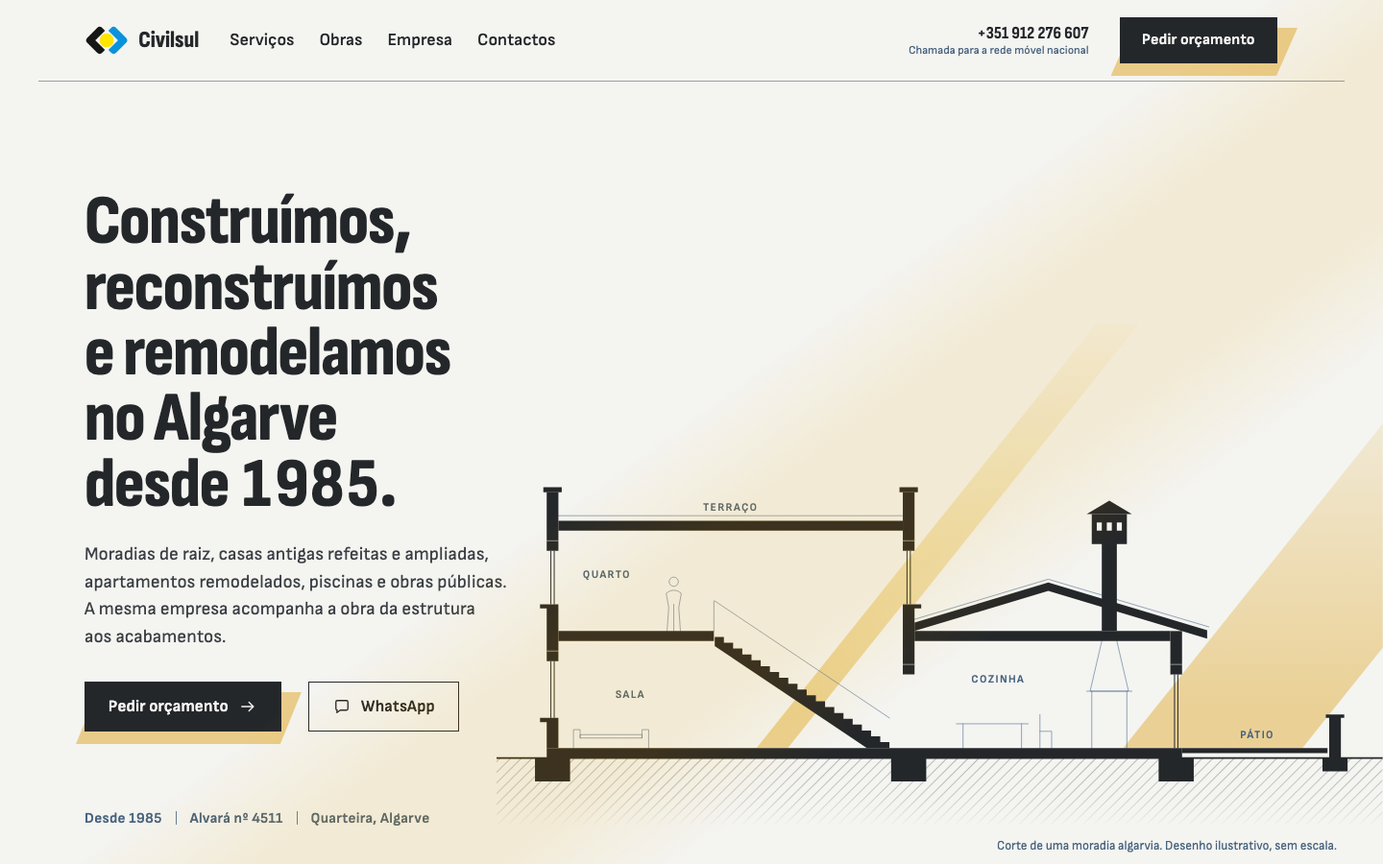
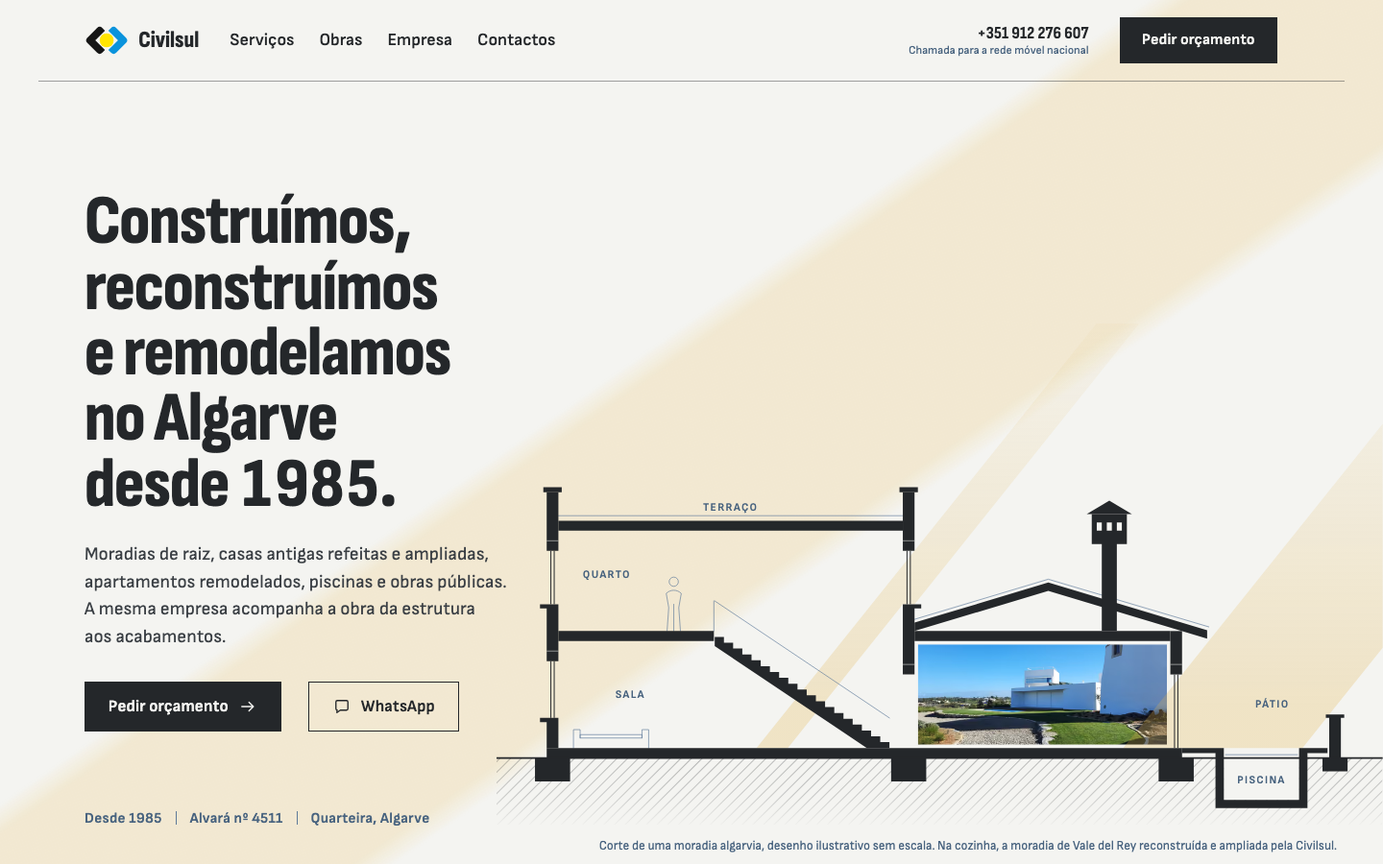
Cal e Barra e Luz em Corte: correções da revisão final

diff --git a/src/variants/luz-em-corte/styles.css b/src/variants/luz-em-corte/styles.css
@@ -73,20 +73,9 @@ address { font-style: normal; }
 .btn .ic { width: 20px; height: 20px; flex: none; }
 .btn--line { --bg: transparent; --fg: var(--ink); }
 .btn--line:hover { --bg: var(--ink); --fg: var(--ground); }
-/* a ação principal está numa mancha de sol: um paralelogramo de luz projetado para trás e para baixo */
-.btn--lit::before {
-  content: ''; position: absolute; z-index: -2;
-  inset: 10px -22px -14px -10px;
-  background: rgb(226 179 74 / 0.62);
-  clip-path: polygon(22px 0, 100% 0, calc(100% - 22px) 100%, 0 100%);
-  transition: translate 0.5s var(--ease);
-  pointer-events: none;
-}
 .btn--lit:hover { --bg: #111315; }
-.btn--lit:hover::before { translate: -6px 0; }
 .btn--rev { --bg: var(--ground); --fg: var(--ink); border-color: var(--ground); }
 .btn--rev:hover { --bg: #fff; }
-.btn--rev::before { background: var(--gold); }
 .btn--line-rev { --fg: var(--ground); border-color: var(--hair-rev); }
 .btn--line-rev:hover { --bg: var(--ground); --fg: var(--ink); }
 .btn[hidden] { display: none; }
@@ -141,6 +130,9 @@ address { font-style: normal; }
 .corte__joint { fill: none; stroke: var(--ground); stroke-width: 0.75; vector-effect: non-scaling-stroke; opacity: 0.7; }
 .corte__ground { fill: none; stroke: var(--ink); stroke-width: 1.6; vector-effect: non-scaling-stroke; }
 .corte__hatch { stroke: var(--ink); stroke-width: 0.6; vector-effect: non-scaling-stroke; }
+.corte__clear { fill: var(--ground); }
+.corte__photo, .corte__photo picture, .corte__photo img { display: block; width: 100%; height: 100%; }
+.corte__photo img { object-fit: cover; object-position: 50% 60%; }
 .corte__labels { fill: var(--blue-ink); font: 650 calc(var(--cw) * 0.0125px) var(--body); letter-spacing: 0.12em; text-transform: uppercase; text-anchor: middle; }
 @media (max-width: 600px) { .corte__labels { font-size: calc(var(--cw) * 0.026px); letter-spacing: 0.06em; } }
 
@@ -224,7 +216,7 @@ address { font-style: normal; }
 .svc__row h3 a:hover { text-decoration: underline; }
 .svc__row h3 a:hover .ic { translate: 4px 0; }
 .svc__short { color: var(--ink-soft); max-width: 40ch; }
-.svc__items { display: grid; gap: 3px; font-size: 0.9375rem; line-height: 1.4; color: var(--blue-ink); }
+.svc__items { display: grid; gap: 3px; font-size: 0.9375rem; line-height: 1.4; color: var(--ink-soft); }
 @media (min-width: 960px) {
   .svc__row { grid-template-columns: repeat(12, minmax(0, 1fr)); column-gap: 24px; align-items: baseline; padding-block: 30px; }
   .svc__row h3 { grid-column: 1 / span 5; }
@@ -291,11 +283,13 @@ address { font-style: normal; }
 
 /* ---------- Obras: divisões de um corte (paredes e lajes em poché) ---------- */
 .works { padding-bottom: clamp(56px, 8vw, 112px); }
+.slab + .works, .slab + .proc { padding-top: clamp(56px, 8vw, 112px); }
 .rooms { display: grid; grid-template-columns: 1fr; gap: var(--wall); padding: calc(var(--wall) / 2); }
 .rm { background: var(--ground); box-shadow: 0 0 0 calc(var(--wall) / 2) var(--ink); min-width: 0; }
 .rm[hidden] { display: none; }
 .rm__link { display: flex; flex-direction: column; height: 100%; text-decoration: none; }
 .rm__photo { aspect-ratio: 4 / 3; background: #d9d9d4; overflow: hidden; }
+.lit { clip-path: inset(0); isolation: isolate; }
 .rm__photo picture, .rm__photo img { width: 100%; height: 100%; }
 .rm__photo img { object-fit: cover; }
 .rm__cap { display: grid; gap: 4px; padding: 14px 18px 20px; }
@@ -437,6 +431,18 @@ address { font-style: normal; }
 .qs__alt small { display: block; font-size: 0.8125rem; color: var(--blue-ink); }
 .qs__alt a { display: inline-flex; min-height: 44px; align-items: center; }
 
+/* ---------- Contactos (corpo) ---------- */
+.cx { padding-block: clamp(40px, 6vw, 80px) clamp(56px, 8vw, 112px); }
+.cx__chan { display: grid; border-top: 1px solid var(--ink); }
+.cx__chan div { display: grid; gap: 4px; padding: 18px 0 20px; border-bottom: 1px solid var(--hair); }
+.cx__chan dt { font-size: 0.875rem; color: var(--blue-ink); }
+.cx__chan dd { display: grid; gap: 2px; justify-items: start; }
+.cx__tel { font: 740 clamp(1.625rem, 1.35rem + 0.9vw, 2.125rem)/1.1 var(--display); text-decoration: none; min-height: 44px; display: inline-flex; align-items: center; overflow-wrap: anywhere; }
+.cx__tel:hover { text-decoration: underline; text-decoration-thickness: 2px; }
+.cx__chan small { font-size: 0.8125rem; color: var(--blue-ink); }
+.cx__addr address { font-size: 1.125rem; line-height: 1.5; }
+@media (min-width: 960px) { .cx__chan { grid-template-columns: repeat(3, 1fr); column-gap: 32px; } .cx__addr { grid-column: span 2; } }
+
 /* ---------- Privacidade ---------- */
 .prv { display: grid; gap: 0; padding-block: clamp(40px, 6vw, 80px) clamp(64px, 9vw, 120px); max-width: calc(760px + var(--gut) * 2); margin-inline: 0 auto; }
 @media (min-width: 1360px) { .prv { margin-inline: calc((100vw - var(--max)) / 2) auto; } }
@@ -502,31 +508,29 @@ address { font-style: normal; }
   .bar a.bar__q { background: var(--gold); color: var(--ink); }
 }
 
-/* ---------- A luz: uma banda de sol que atravessa a página com o scroll ---------- */
-.sun > i {
-  position: fixed; z-index: 15; pointer-events: none;
+/* ---------- A luz: uma banda de sol que atravessa a página com o scroll ----------
+   A banda fica por baixo do conteúdo (z-index -1: só ilumina o fundo de cal). Dentro das fotografias
+   (.lit, recortadas com clip-path) repete-se a mesma banda fixa, que assim passa por cima da imagem. */
+@property --sp { syntax: '<number>'; inherits: true; initial-value: 0.42; }
+.sun > i, .lit::after {
+  content: ''; position: fixed; pointer-events: none;
   left: 50%; top: 50%;
-  width: 26vmax; height: 320vmax; margin: -160vmax 0 0 -13vmax;
-  background: linear-gradient(90deg, transparent, var(--c) 30%, var(--c) 70%, transparent);
-  translate: 20vw 0; rotate: 54deg;
+  width: 20vmax; height: 320vmax; margin: -160vmax 0 0 -10vmax;
+  background: linear-gradient(90deg, transparent, var(--c) 9%, var(--c) 91%, transparent);
+  translate: calc(36vw - 72vw * var(--sp)) 0;
+  rotate: calc(47deg + 19deg * var(--sp));
 }
-.sun__soft { --c: rgb(226 179 74 / 0.55); mix-blend-mode: soft-light; }
-.sun__warm { --c: rgb(226 179 74 / 0.14); mix-blend-mode: multiply; }
+.sun > i { z-index: -1; }
+.sun__soft { --c: rgb(226 179 74 / 0.6); mix-blend-mode: soft-light; }
+.sun__warm { --c: rgb(226 179 74 / 0.17); mix-blend-mode: multiply; }
+.lit::after { --c: rgb(226 179 74 / 0.32); mix-blend-mode: screen; z-index: 1; }
 
 @media (prefers-reduced-motion: no-preference) {
   @supports (animation-timeline: scroll()) {
-    .sun > i { animation: sunpath linear both; animation-timeline: scroll(root); }
+    :root { animation: sunpath linear both; animation-timeline: scroll(root); }
   }
-  [data-sun][data-js] > i {
-    translate: calc(36vw - 72vw * var(--p, 0)) 0;
-    rotate: calc(47deg + 19deg * var(--p, 0));
-    opacity: min(1, calc(var(--p, 0) * 9));
-  }
+  .sun > i { opacity: min(1, calc(var(--sp) * 9)); }
 }
-@keyframes sunpath {
-  0% { translate: 36vw 0; rotate: 47deg; opacity: 0; }
-  11% { opacity: 1; }
-  100% { translate: -36vw 0; rotate: 66deg; opacity: 1; }
-}
-@media (forced-colors: active) { .sun { display: none; } }
-@media print { .sun, .bar { display: none; } }
+@keyframes sunpath { from { --sp: 0; } to { --sp: 1; } }
+@media (forced-colors: active) { .sun, .lit::after { display: none; } }
+@media print { .sun, .bar, .lit::after { display: none; } }

diff --git a/src/variants/cal-e-barra/styles.css b/src/variants/cal-e-barra/styles.css
@@ -20,7 +20,6 @@
 
   --max: 1440px;
   --pad: clamp(16px, 3.4vw, 48px);
-  --street: clamp(44px, 5.5vw, 80px);
   --gut: clamp(24px, 2.8vw, 40px);
   --expo: cubic-bezier(0.16, 1, 0.3, 1);
   --hd-h: 0px;
@@ -141,28 +140,24 @@ p { text-wrap: pretty; }
 }
 .barra__link:hover { text-decoration: underline; text-decoration-color: currentColor; }
 .barra--ocre .barra__link { color: var(--ink); }
+.barra__links { display: flex; flex-wrap: wrap; gap: 0 28px; padding-block: 10px; }
+.barra__links a { display: inline-flex; align-items: center; min-height: 44px; color: var(--cal); font: 600 1rem/1.2 var(--display); text-decoration: none; }
+.barra__links a:hover { text-decoration: underline; }
+.barra .filter { margin-top: 0; padding-block: 14px; }
+.barra .filter button { border-color: var(--anil-rule); color: var(--cal); }
+.barra .filter button:hover { background: var(--anil-2); }
+.barra .filter button[aria-pressed='true'] { background: var(--cal); border-color: var(--cal); color: var(--anil); }
+.barra:has(.filter[hidden]) { --bh: 40px; }
 
 /* ---------- Parede e platibanda ---------- */
 .wall {
   position: relative;
-  margin-top: var(--street);
   background: var(--cal);
 }
 .wall__body { padding-top: clamp(56px, 7vw, 112px); padding-bottom: clamp(64px, 8vw, 128px); }
 .wall--first { margin-top: 0; }
 .wall--first .wall__body { padding-top: clamp(24px, 4vw, 56px); padding-bottom: clamp(48px, 6vw, 88px); }
 .vh { position: absolute !important; width: 1px; height: 1px; overflow: hidden; clip-path: inset(50%); white-space: nowrap; }
-.crown {
-  --step: clamp(14px, 1.6vw, 24px);
-  position: absolute;
-  bottom: calc(100% - 1px);
-  left: max(var(--pad), calc((100% - var(--max)) / 2 + var(--pad)));
-  width: clamp(220px, 30vw, 440px);
-  height: calc(var(--step) * 1.1);
-  background: var(--cal);
-  clip-path: polygon(0 100%, 0 50%, var(--step) 50%, var(--step) 0, calc(100% - var(--step)) 0, calc(100% - var(--step)) 50%, 100% 50%, 100% 100%);
-}
-
 /* ---------- Cabeçalho (ocupa 5/12 da primeira vista em desktop) ---------- */
 .hd { position: relative; z-index: 2; background: var(--cal); }
 .hd__in { padding: 18px var(--pad) 0; }
@@ -323,12 +318,15 @@ h2.trades__h { font-size: clamp(1.75rem, 2.8vw, 2.5rem); }
 .sx__items li:last-child { border-bottom: 1px solid var(--rule); }
 
 /* ---------- Serviço ---------- */
-.sv__intro { display: grid; gap: 28px; margin-top: 36px; }
-.sv__intro > p { max-width: 60ch; color: var(--ink); }
+.sv__top { display: grid; gap: 40px; }
+.sv__lead { margin-top: 28px; max-width: 60ch; color: var(--ink); }
+.sv__win .win__glass { aspect-ratio: 4 / 5; }
+.sv__inc { margin-top: clamp(40px, 5vw, 72px); }
+.sv__inc ul { columns: 1; column-gap: var(--gut); }
+.sv__inc li { break-inside: avoid; }
 .sv__inc h2 { font-size: 1.25rem; letter-spacing: -0.02em; }
 .sv__inc ul { margin-top: 12px; }
 .sv__inc li { padding: 10px 0; border-top: 1px solid var(--rule); line-height: 1.4; }
-.sv__inc li:last-child { border-bottom: 1px solid var(--rule); }
 .sv__cta { margin-top: 32px; white-space: normal; text-align: left; }
 .sv__works { display: grid; gap: 44px var(--gut); margin-top: clamp(32px, 4vw, 56px); }
 .sv__works .win__glass { aspect-ratio: 4 / 3; }
@@ -401,9 +399,9 @@ h2.trades__h { font-size: clamp(1.75rem, 2.8vw, 2.5rem); }
 .qf__steps li[aria-current] { color: var(--ink); font-weight: 600; }
 .qf__steps li[aria-current] .num, .qf__steps li[data-done] .num { color: var(--anil); }
 .qf__steps li[role='button'] { cursor: pointer; text-decoration: underline; text-decoration-color: var(--rule); }
-.qf__steps { position: relative; border-top: 6px solid var(--rua); }
+.qf__steps { position: relative; border-top: 2px solid var(--rule); }
 .qf__bar {
-  position: absolute; left: 0; right: 0; top: -6px; height: 6px; background: var(--anil);
+  position: absolute; left: 0; right: 0; top: -2px; height: 2px; background: var(--anil);
   transform-origin: left; transform: scaleX(calc(0.25 + var(--progress, 0) * 0.75));
 }
 .qf:not(.is-js) .qf__steps { display: none; }
@@ -443,7 +441,7 @@ h2.trades__h { font-size: clamp(1.75rem, 2.8vw, 2.5rem); }
 .qf:not(.is-js) [data-prev], .qf:not(.is-js) [data-next], .qf:not(.is-js) [data-send='wa'] { display: none; }
 .qf__status:empty { display: none; }
 .qf__status { font-weight: 600; color: var(--anil); }
-.sheet { padding: 24px 24px 20px; background: #fff; border-top: 6px solid var(--anil); }
+.sheet { padding-top: 18px; border-top: 1.5px solid var(--ink); }
 .sheet__h { font-size: 1.375rem; }
 .sheet__rows { margin-top: 12px; }
 .sheet__rows div { display: grid; grid-template-columns: 9.5rem 1fr; gap: 12px; padding: 9px 0; border-top: 1px solid var(--rule); font-size: 0.9375rem; }
@@ -576,7 +574,8 @@ h2.trades__h { font-size: clamp(1.75rem, 2.8vw, 2.5rem); }
 
   .ph { max-width: 1040px; }
   .sx__row { grid-template-columns: minmax(0, 3fr) minmax(0, 5fr) minmax(0, 4fr); column-gap: var(--gut); align-items: start; }
-  .sv__intro { grid-template-columns: minmax(0, 7fr) minmax(0, 5fr); column-gap: calc(var(--gut) * 2); }
+  .sv__top--win { grid-template-columns: minmax(0, 7fr) minmax(0, 5fr); column-gap: calc(var(--gut) * 2); align-items: end; }
+  .sv__inc ul { columns: 3; }
   .sv__works--3 { grid-template-columns: repeat(3, minmax(0, 1fr)); }
   .sv__others { grid-template-columns: repeat(3, minmax(0, 1fr)); }
   .ab { grid-template-columns: minmax(0, 5fr) minmax(0, 7fr); column-gap: calc(var(--gut) * 2); }
@@ -599,6 +598,7 @@ h2.trades__h { font-size: clamp(1.75rem, 2.8vw, 2.5rem); }
 }
 
 @media (max-width: 899px) {
+  .hero__actions { display: none; }
   body { padding-bottom: calc(60px + env(safe-area-inset-bottom)); }
   .ft { padding-bottom: 40px; }
   .hd__nav ul { flex-wrap: nowrap; }

diff --git a/src/variants/luz-em-corte/sun.ts b/src/variants/luz-em-corte/sun.ts
@@ -1,23 +1,24 @@
 // A banda de sol percorre a página com o scroll. Onde o CSS tem scroll-driven animations, é só CSS;
-// aqui fica a alternativa para os outros browsers. Com movimento reduzido, a banda fica parada.
-const sun = document.querySelector<HTMLElement>('[data-sun]');
+// aqui fica a alternativa para os outros browsers (--sp no <html>). Com movimento reduzido, a banda fica parada.
+const root = document.documentElement;
 const reduce = matchMedia('(prefers-reduced-motion: reduce)');
 
-if (sun && !CSS.supports('animation-timeline: scroll()')) {
+if (!CSS.supports('animation-timeline: scroll()')) {
   let raf = 0;
   const set = () => {
     raf = 0;
-    const max = document.documentElement.scrollHeight - innerHeight;
-    sun.style.setProperty('--p', (max > 0 ? Math.min(1, Math.max(0, scrollY / max)) : 0).toFixed(4));
+    const max = root.scrollHeight - innerHeight;
+    root.style.setProperty('--sp', (max > 0 ? Math.min(1, Math.max(0, scrollY / max)) : 0).toFixed(4));
   };
   const on = () => { if (!raf) raf = requestAnimationFrame(set); };
   const bind = () => {
     if (reduce.matches) {
-      delete sun.dataset.js;
+      delete root.dataset.sunjs;
+      root.style.removeProperty('--sp');
       removeEventListener('scroll', on);
       removeEventListener('resize', on);
     } else {
-      sun.dataset.js = '';
+      root.dataset.sunjs = '';
       addEventListener('scroll', on, { passive: true });
       addEventListener('resize', on);
       set();

diff --git a/src/variants/cal-e-barra/DESIGN.md b/src/variants/cal-e-barra/DESIGN.md
@@ -1,16 +1,16 @@
 # Cal e Barra (proposta B) — sistema como construído
 
 Site completo, só PT. Rota única `src/pages/cal-e-barra/[...path].astro` (`variantPaths(['pt'])`) + `src/variants/cal-e-barra/**`:
-`Layout.astro` (head, cabeçalho, rodapé, barra fixa móvel), `Wall.astro` (parede: platibanda + corpo + barra com slot), `PageHead.astro`, `Win.astro` (obra como janela), `Channels.astro`, `Close.astro` (remate de contacto), `Trades.astro`, `Process.astro`, `Crown.astro`, `Icon.astro`, `copy.ts`, scripts `barra.ts` / `menu.ts` / `filter.ts`, e `pages/` (Home, Services, Service, Works, Work, Quote, Contact, About, Privacy).
+`Layout.astro` (head, cabeçalho, rodapé, barra fixa móvel), `Wall.astro` (parede: corpo + barra com slot; barra vazia desce a `xs`), `PageHead.astro`, `Win.astro` (obra como janela), `Channels.astro`, `Close.astro` (remate de contacto), `Trades.astro`, `Process.astro`, `Icon.astro`, `copy.ts`, scripts `barra.ts` / `menu.ts` / `filter.ts`, e `pages/` (Home, Services, Service, Works, Work, Quote, Contact, About, Privacy).
 
 ## Tese
-A página é uma casa algarvia em alçado. A parede é cal (`--cal`), cada secção termina numa barra pintada que ocupa toda a largura, e cada parede é rematada por uma platibanda em degrau que sobe da "rua" (`--rua`, o intervalo entre paredes). Não há adereços: nem azulejo, nem sol, nem texturas. A casa vive na estrutura, na cor e nas fotografias reais.
+A página é uma casa algarvia em alçado. A parede é cal (`--cal`) e cada secção termina numa barra pintada a toda a largura, que encosta diretamente à parede seguinte. A platibanda desenhada foi retirada na revisão final (lia-se como um separador de interface); a platibanda fica só nas fotografias (primeira vista). Não há adereços: nem azulejo, nem sol, nem texturas. A casa vive na estrutura, na cor e nas fotografias reais.
 
 ## Cor
 | token | valor | uso |
 |---|---|---|
 | `--cal` | #F5F6F4 | parede, fundo de todas as secções |
-| `--rua` | #E6E7E2 | intervalo entre paredes, rodapé ("o chão"), fundo das janelas antes da foto carregar |
+| `--rua` | #E6E7E2 | rodapé ("o chão"), fundo das janelas antes da foto carregar |
 | `--ink` / `--ink-2` / `--ink-3` | #1B1B1B / #454643 / #5C5D59 | texto; todos ≥ 5.4:1 sobre cal |
 | `--anil` | #1F4FA0 | barra principal (primeira vista, obras, empresa, contactos), botão principal, barra fixa móvel, `::selection` |
 | `--anil-soft` | #CDD8EE | texto secundário sobre anil (5.4:1) |
@@ -23,7 +23,7 @@ A página é uma casa algarvia em alçado. A parede é cal (`--cal`), cada secç
 - Números de telefone: `.num` com `tnum`. `tnum` fica fora dos títulos (no Schibsted alarga vírgulas e pontos).
 
 ## Estrutura
-- `.wall` = secção. `margin-top: var(--street)` abre a rua; `.crown` (clip-path de 8 pontos, largura clamp(220px, 30vw, 440px)) fica sobre a coluna do título.
+- `.wall` = secção; as paredes seguem-se sem intervalo, separadas só pelas barras.
 - `.barra` = pé da parede, altura por modificador: `--hero` 88px, `--facts` 72/88px, `--m` 64px, `--s` 48px, `--xs` 40px. Só a primeira vista e a empresa levam conteúdo (ações; factos).
 - Primeira vista em desktop: cabeçalho e H1 em 5/12, janela com a reconstrução e ampliação de moradia (platibanda decorada, céu limpo) em 7/12, proporção 4:3.1 assente no pé da vista, barra anil a toda a largura no fundo da vista. O cabeçalho sobrepõe-se à grelha por `--hd-h` (156px).
 - Obras: grelha de 12 colunas, janelas alinhadas pelo lintel (topo), proporções 3:2 / 4:3 / 4:5, cantos retos, legenda por baixo (título + local/cliente quando a legenda original o diz).
@@ -31,12 +31,13 @@ A página é uma casa algarvia em alçado. A parede é cal (`--cal`), cada secç
 - Móvel: barra fixa anil com Ligar · WhatsApp · Orçamento (`#contactos`).
 
 ## Páginas
-- Cada página é uma sequência de `Wall`: a primeira sem platibanda e com a barra que se pinta ao carregar (`barra--load`); as seguintes com platibanda e barra pintada ao entrar em vista.
-- A barra leva conteúdo quando serve: ligações de secção (home), factos (empresa), navegação obra anterior/seguinte (obra), o alvará (obras públicas).
+- Cada página é uma sequência de `Wall`: a primeira com a barra que se pinta ao carregar (`barra--load`); as seguintes com a barra pintada ao entrar em vista.
+- A barra leva conteúdo quando serve: ligações de secção e "Pedir orçamento" (home), os seis serviços como âncoras (índice de serviços), o filtro (índice de obras), factos (empresa), obra anterior/seguinte (obra), o alvará (obras públicas). Barras vazias ficam a 40px. Em telemóvel a barra da primeira vista leva só os factos (as ações estão na barra fixa).
 - Obras públicas não têm fotografia: a primeira parede termina numa barra anil alta com "Alvará nº 4511" pintado; no índice de serviços a janela desse serviço é um painel anil com o alvará.
 - Obra: fotografias na proporção natural; com duas fotos as colunas repartem-se pela proporção de cada uma para as alturas coincidirem.
 - Obras: filtro por KINDS (botões `aria-pressed`, escondido sem JS, `?tipo=` na URL).
-- Orçamento: contrato de `src/scripts/quote.ts` à letra; o indicador de passos é uma barra anil sobre a rua; o resumo é uma folha branca com filete anil; sem JS todos os passos visíveis e envio por mailto.
+- Serviço: a primeira parede repete a composição da home, texto à esquerda e a obra principal do serviço como janela à direita; "O que inclui" em três colunas por baixo.
+- Orçamento: contrato de `src/scripts/quote.ts` à letra; o indicador de passos é um filete com o troço anil do passo; o resumo assenta na cal, só com filetes (sem cartão); sem JS todos os passos visíveis e envio por mailto.
 - Cabeçalho: na home ocupa 5/12 da primeira vista; nas interiores é uma linha. Menu móvel em painel (botão com `aria-expanded`, Escape fecha e devolve o foco); sem JS a navegação fica visível.
 
 ## Movimento
@@ -53,4 +54,4 @@ Nenhum raster novo. Todas as imagens são as fotografias reais do portefólio at
 - `impeccable detect`: sem achados.
 - Monte do Pocinho (barra azul) nas Obras da home e na página Empresa.
 - Site completo verificado a 1440 e 390 (8 páginas da captura + obras públicas + privacidade): sem overflow; formulário percorrido com Playwright (pré-seleção ?tipo=, validação por passo, resumo, envio WhatsApp); menu e filtro testados.
-- Veredito: a gramática (cal, barra, platibanda) lê-se como arquitetura e não como tema. Ponto fraco: muitas barras anil vazias ao longo de páginas longas repetem-se e dependem da pintura animada para ganhar sentido.
+- Veredito (após a revisão final): cal e barra lêem-se como arquitetura; as barras têm função ou ficam baixas. Ponto fraco: sem a platibanda desenhada, a gramática assenta só na barra e nas fotografias.

diff --git a/src/variants/luz-em-corte/DESIGN.md b/src/variants/luz-em-corte/DESIGN.md
@@ -5,18 +5,18 @@ O site é lido como um corte de arquitetura: lajes a carvão (12 px) separam os 
 ## Sistema
 - Cores: cal #F4F4F1 (fundo), poché #24272A (lajes, paredes, texto), sol #E2B34A (só luz: banda fixa, raios no desenho, mancha atrás da ação principal, botão Orçamento da barra móvel), azul de sombra #5E7A99 (traço fino) / #48637F (texto secundário sobre cal, 5,6:1) / #A9BCCF (sobre carvão, 7:1), erro #9B2C1F.
 - Tipo: Sofia Sans Condensed Variable 700–800 (títulos, telefones, legendas de divisão), Sofia Sans Variable (texto). Numerais tabulares em toda a página.
-- Botões: retangulares, carvão ou traço; a ação principal (`.btn--lit`) está numa mancha de sol em paralelogramo que se desloca 6 px no hover.
+- Botões: retangulares, carvão ou traço, sem sombras nem mancha; a luz que os atravessa é a própria banda de sol.
 - Linhas: 1 px carvão para abrir listas, 1 px a 42 % para as divisões internas.
 
 ## O desenho (Corte.astro)
-Um só corte construtivo, desenhado uma vez (~40 unidades por metro, sem escala nem cotas): volume de dois pisos com terraço, platibanda e capeamento; escada de 20 espelhos com vazio e guarda; ala térrea com laje de esteira, telhado de duas águas e chaminé algarvia; lintéis com junta, peitoris salientes, vidros a traço; fundações em sapata; terreno tracejado a 45° que se desvanece; pátio com pavimento e muro baixo; mobiliário e figura a 0,75 px. Os raios de sol entram com o mesmo ângulo pela janela alta e pela porta do pátio.
+Um só corte construtivo, desenhado uma vez (~40 unidades por metro, sem escala nem cotas): volume de dois pisos com terraço, platibanda e capeamento; escada de 20 espelhos com vazio e guarda; ala térrea com laje de esteira, telhado de duas águas e chaminé algarvia; lintéis com junta, peitoris salientes, vidros a traço; fundações em sapata; terreno tracejado a 45° que se desvanece; pátio com piscina enterrada (tanque em poché, linha de água) e muro baixo; mobiliário e figura a 0,75 px. Os raios de sol entram com o mesmo ângulo pela janela alta e pela porta do pátio (gradiente até 0,26). Na versão da inicial, a fotografia real de Vale del Rey ocupa a cozinha (foreignObject com Picture) e o raio atravessa-a.
 Recortes (`view`): full (inicial, serviços, contactos), moradias (empresa), reconstrucao, remodelacoes, piscinas, telhados, obras-publicas (fundações e terreno: tratamento desenhado, sem fotografia, com "Alvará nº 4511").
 
 ## Páginas
 Rota única `src/pages/luz-em-corte/[...path].astro` (variantPaths(['pt'])). Inicial, Serviços + 6, Obras (filtro por KINDS com aria-pressed, progressivo) + 13, Pedir orçamento (contrato de src/scripts/quote.ts), Contactos, Empresa, Privacidade. Layout comum com menu móvel (aria-expanded, Escape), rodapé completo e barra móvel Ligar · WhatsApp · Orçamento.
 
 ## Movimento
-Um só momento: a banda de sol fixa (soft-light + multiply) atravessa todas as páginas e baixa de ângulo com o scroll. CSS scroll-driven onde existe; sun.ts como alternativa; parada com movimento reduzido. O resto são estados (hover, foco, barra de progresso do orçamento).
+Um só momento: a banda de sol fixa atravessa todas as páginas e baixa de ângulo com o scroll (propriedade registada --sp no :root: CSS scroll-driven onde existe, sun.ts como alternativa, parada com movimento reduzido). Fica por baixo do conteúdo (z-index −1), portanto só ilumina a cal; texto, botões e poché nunca são tingidos. Nas fotografias (.lit, com clip-path) repete-se a mesma banda fixa em screen a 0,32, alinhada com a do fundo. O resto são estados (hover, foco, barra de progresso do orçamento).
 
 ## Proveniência
 Todas as imagens raster são fotografias reais do portefólio atual (src/assets/obras). Nenhum raster novo; o desenho é SVG autoral.

diff --git a/.impeccable/surfaces/src-pages-cal-e-barra.md b/.impeccable/surfaces/src-pages-cal-e-barra.md
@@ -14,6 +14,7 @@ THESIS: The site is built like a well-made Algarve house: lime-washed walls as g
 OWN-WORLD: Ground limewash #F5F6F4 with an extremely subtle mineral texture (CSS noise at ≤3% or none), ink #1B1B1B. Barras: Algarve blue #1F4FA0 is the primary barra (carries the CTA and the facts), ochre #D9A43A a secondary barra used once or twice, terracotta #B5553A only as a hairline/roof-tile accent. Each major section sits on its barra: a full-width painted band 40–72px tall at the section foot (content may sit inside it: facts, links). Section tops can carry a platibanda profile: a simple stepped or softly curved parapet silhouette cut in the section's top edge (CSS clip-path with few points or an SVG with <8 nodes, drawn once and reused — it is architecture, not decoration). Type: Manrope is NOT allowed (used by C). Use Schibsted Grotesk Variable for display (700–800, confident, tracking ≥ -0.035em) and Sofia Sans Variable for body; tabular numerals. Photos large, square-cornered, sitting on the wall like windows (deep, generous white margins), never cards. Buttons: rectangular, blue barra fill with lime-white text, or ink outline.
 STORY: The visitor recognises the house they want (white walls, clean lines, real finished work), reads a plain promise, sees the six services and the works like walking past houses, reads the company facts on the blue barra, and calls or messages.
 FIRST VIEWPORT: Left 5/12 on limewash: header strip (logo, nav, phone + note, "Pedir orçamento"), H1 "Construímos, reconstruímos e remodelamos no Algarve desde 1985." at ~4.5–5rem, one support line. Right 7/12: large photo of Monte do Pocinho (blue barra house) set like a window in the wall. Across the full width at the bottom of the viewport: the blue barra (~88px) carrying the primary action "Pedir orçamento", WhatsApp, and the facts (Desde 1985 · Alvará nº 4511 · Quarteira, Algarve). Mobile: H1, photo, then the barra with CTA stacked; sticky bar.
+HERO PHOTO DECISION (2026-09-30, parent, after the home-only review): the first-screen window uses reconstrucao-ampliacao-moradia (white house, decorated platibanda, blue sky) instead of Monte do Pocinho, whose heavy overcast sky failed at 7/12 on a page whose thesis depends on light; Monte do Pocinho's blue barra stays on the page in Obras.
 FORM: grounded candidate (Impeccable's pick) from re-roll round 2 of seed 42e80edc.
 SIGNATURE: the barra paints itself: when each section enters view, its barra fills left→right once (clip-path/scaleX, ~900ms expo-out), like a painter's brush along the base of a wall. Reduced motion: barras already painted.
 FINISH: unreviewed and undocumented is unfinished; this build ends with the finish review, the verdict, DESIGN.md, and every shipping raster carrying its provenance

diff --git a/.impeccable/briefs/cal-e-barra.md b/.impeccable/briefs/cal-e-barra.md
@@ -7,6 +7,7 @@ THESIS: The site is built like a well-made Algarve house: lime-washed walls as g
 OWN-WORLD: Ground limewash #F5F6F4 with an extremely subtle mineral texture (CSS noise at ≤3% or none), ink #1B1B1B. Barras: Algarve blue #1F4FA0 is the primary barra (carries the CTA and the facts), ochre #D9A43A a secondary barra used once or twice, terracotta #B5553A only as a hairline/roof-tile accent. Each major section sits on its barra: a full-width painted band 40–72px tall at the section foot (content may sit inside it: facts, links). Section tops can carry a platibanda profile: a simple stepped or softly curved parapet silhouette cut in the section's top edge (CSS clip-path with few points or an SVG with <8 nodes, drawn once and reused — it is architecture, not decoration). Type: Manrope is NOT allowed (used by C). Use Schibsted Grotesk Variable for display (700–800, confident, tracking ≥ -0.035em) and Sofia Sans Variable for body; tabular numerals. Photos large, square-cornered, sitting on the wall like windows (deep, generous white margins), never cards. Buttons: rectangular, blue barra fill with lime-white text, or ink outline.
 STORY: The visitor recognises the house they want (white walls, clean lines, real finished work), reads a plain promise, sees the six services and the works like walking past houses, reads the company facts on the blue barra, and calls or messages.
 FIRST VIEWPORT: Left 5/12 on limewash: header strip (logo, nav, phone + note, "Pedir orçamento"), H1 "Construímos, reconstruímos e remodelamos no Algarve desde 1985." at ~4.5–5rem, one support line. Right 7/12: large photo of Monte do Pocinho (blue barra house) set like a window in the wall. Across the full width at the bottom of the viewport: the blue barra (~88px) carrying the primary action "Pedir orçamento", WhatsApp, and the facts (Desde 1985 · Alvará nº 4511 · Quarteira, Algarve). Mobile: H1, photo, then the barra with CTA stacked; sticky bar.
+HERO PHOTO DECISION (2026-09-30, parent, after the home-only review): the first-screen window uses reconstrucao-ampliacao-moradia (white house, decorated platibanda, blue sky) instead of Monte do Pocinho, whose heavy overcast sky failed at 7/12 on a page whose thesis depends on light; Monte do Pocinho's blue barra stays on the page in Obras.
 FORM: grounded candidate (Impeccable's pick) from re-roll round 2 of seed 42e80edc.
 SIGNATURE: the barra paints itself: when each section enters view, its barra fills left→right once (clip-path/scaleX, ~900ms expo-out), like a painter's brush along the base of a wall. Reduced motion: barras already painted.
 FINISH: unreviewed and undocumented is unfinished; this build ends with the finish review, the verdict, DESIGN.md, and every shipping raster carrying its provenance
